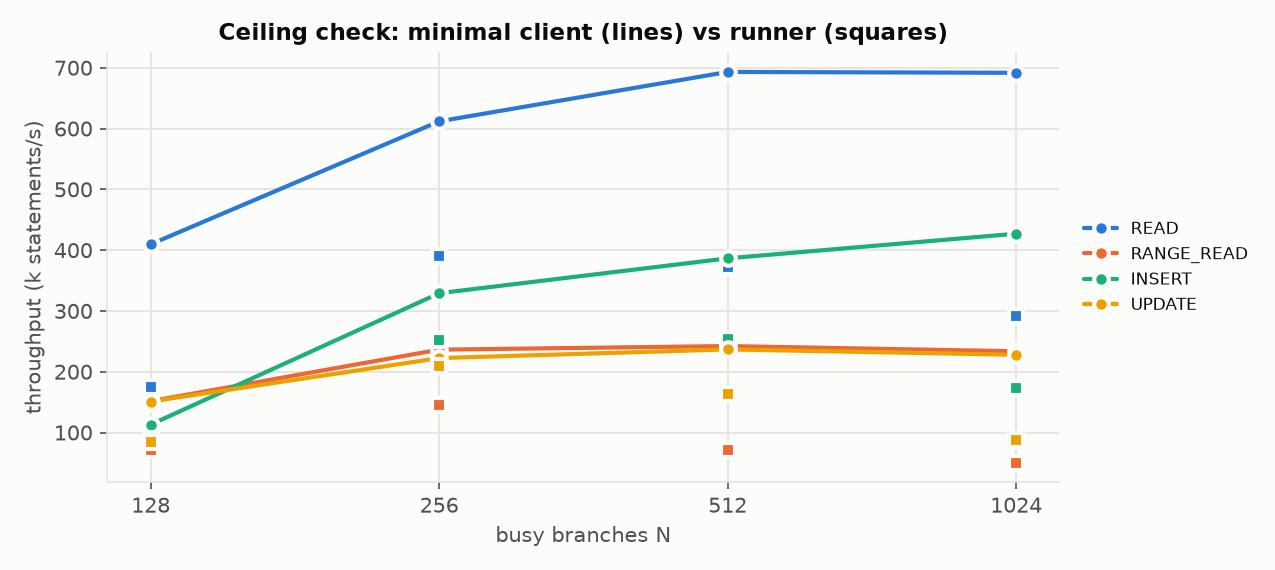
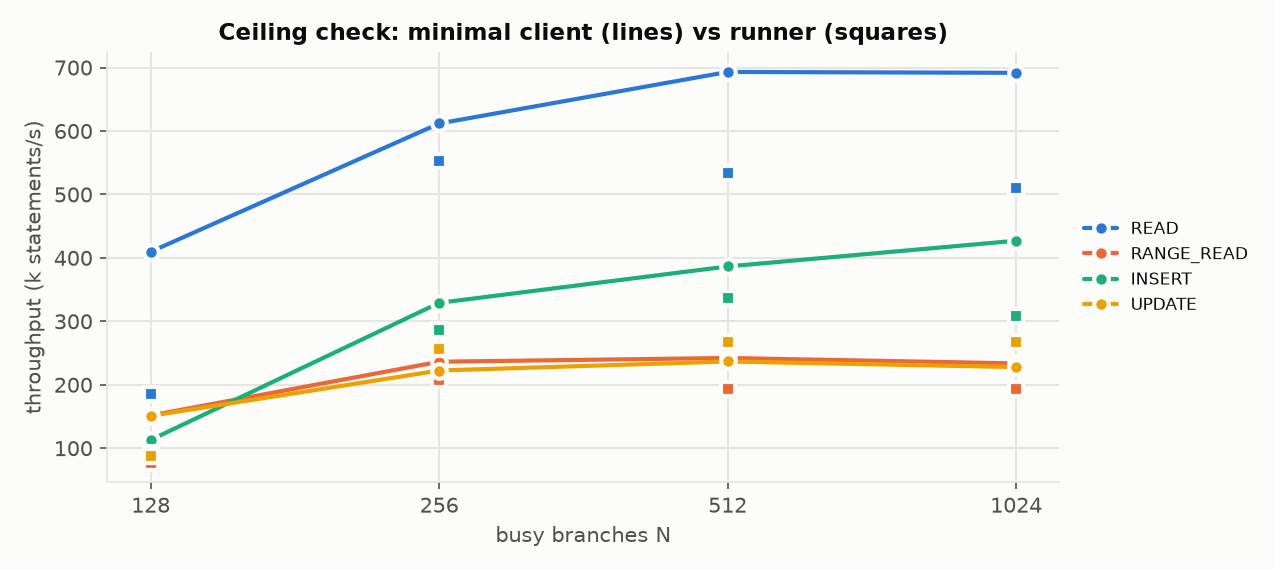
exp 13: throughput as the sum of per-node rates; n4's faulty memory; what caps scaling at N = 256
The merged throughput (all ops / the longest node window) followed n4 (hp091), whose memory copy
bandwidth is ~1 GiB/s against 6.4-7.2 GiB/s on the other nodes. The scaling and ceiling figures
and tables now use the sum of the nodes' own rates; the merged number stays in scaling.csv as
throughput_slowest_window.

The plateau from N = 256 is about one client-backend pair per hardware thread, with the Python
client spending most of the CPU (~270 us per point read against ~100 us in Postgres). pgbench with
the same unprepared query serves 118k reads/s per node at 17 clients against the runner's 38k. The
report's earlier reading of the ceiling check as a light client is corrected; the probes are in
logs/node_probes_after_run_2026-11-05.txt, and cloudlab.md marks hp091.

diff --git a/experiment/13-pgcopy-nodes/scripts/plot.py b/experiment/13-pgcopy-nodes/scripts/plot.py
@@ -4,7 +4,7 @@
     uv run python experiment/13-pgcopy-nodes/scripts/plot.py [--run data/run] [--figures figures]
 
 figures/low_load.{png,csv}       one busy branch, one client: p50 / p95 per data op; branch create (copy + start)
-figures/scaling.{png,csv}        busy branches spread over the 15 hosts: throughput and p50 per op vs N
+figures/scaling.{png,csv}        busy branches spread over the 15 hosts: throughput (sum of per-node rates) and p50
 figures/ceiling.{png,csv}        the minimal asyncio client (ceiling_check) vs the runner, per op and N
 figures/branch_create.{png,csv}  create latency (BRANCH rows) vs busy branches: spread over 15 hosts and on one host
 figures/cold_start.{png,csv}     point-read latency on a fresh branch, rolling median per run
@@ -126,8 +126,12 @@ def scaling(run: Path, out: Path):
             rc = s.get("remote_cpu") or {}
             mc = (s.get("multi_client") or {}).get("nodes") or []
             slow = max(mc, key=lambda x: x["elapsed_time"]) if mc else None
-            rows.append({"op": op, "n": s["num_threads"], "throughput": s["throughput"],
-                         "sum_node_throughput": sum(x["throughput"] for x in mc) if mc else s["throughput"],
+            # throughput = sum of each node's own rate (all nodes start together; a slow node does not stretch
+            # the others' windows). throughput_slowest_window = all ops / the longest node window, the shared
+            # driver's merged number: one faulty node (n4, README) drags it down, so it is kept only for reference.
+            rows.append({"op": op, "n": s["num_threads"],
+                         "throughput": sum(x["throughput"] for x in mc) if mc else s["throughput"],
+                         "throughput_slowest_window": s["throughput"],
                          "slowest_node": slow["node"] if slow else None,
                          "window_s": s.get("elapsed_time"),
                          "median_node_window_s": float(np.median([x["elapsed_time"] for x in mc])) if mc else None,
@@ -146,13 +150,12 @@ def scaling(run: Path, out: Path):
     for i, op in enumerate(OPS):
         d = df[df.op == op]
         line(axes[0], d.n, d.throughput / 1e3, i, op)
-        axes[0].plot(d.n, d.sum_node_throughput / 1e3, color=SERIES[i], linestyle=":", linewidth=1.5)
         line(axes[1], d.n, d.p50_ms, i, op)
     for ax in axes:
         nticks(ax, df.n)
         ax.set_xlabel("busy branches N (spread over the hosts)")
     axes[0].set_ylabel("throughput (k statements/s)")
-    axes[0].set_title("Throughput (dotted: sum of per-node rates)")
+    axes[0].set_title("Throughput (sum of per-node rates)")
     axes[1].set_ylabel("p50 latency (ms)")
     axes[1].set_title("Latency")
     axes[0].legend(loc="upper left")

diff --git a/experiment/13-pgcopy-nodes/report.md b/experiment/13-pgcopy-nodes/report.md
@@ -15,13 +15,23 @@ per point (the workloads' own windows); medians unless noted. Dataset: CH-benCHm
 - **Data operations at low load are local-Postgres fast:** point read 0.46 ms, 100-row range read 1.14 ms, insert
   0.74 ms, update 0.89 ms (p50, one branch, one client on the same node over loopback, fsync and synchronous commit
   on).
-- **Throughput scales with the hosts until the hosts' CPUs are full.** With N busy branches spread over the 15
-  hosts, throughput grows linearly to N = 256: 390k point reads/s, 145k range reads/s, 253k inserts/s, 209k
-  updates/s (sum of the per-node rates: 553k / 208k / 287k / 256k). Beyond that every host runs 20 client processes
-  next to 34-69 instances on 20 hardware threads (n1: 14-19 busy), and one slow node (n4) sets the merged window:
-  at N = 1,024, 292k point reads/s and 1.2 ms p50.
-- **The benchmark client, not Postgres, is most of the high-N limit.** A minimal asyncio client on the same nodes
-  (ceiling check) reaches 693k point reads/s, 242k range reads/s, 427k inserts/s and 237k updates/s.
+- **Throughput grows with N until the hosts are full, then stays flat.** With N busy branches spread over the 15
+  hosts (throughput = sum of the nodes' own rates), it peaks at N = 256 to 512: 553k point reads/s, 208k range
+  reads/s, 337k inserts/s, 268k updates/s, and stays within 9% of that up to N = 1,024 while latency rises. Reads stop
+  at the hosts' CPUs (from N = 512, 17-19 of 20 hardware threads busy on the median node, 10 physical cores), writes at the SSDs
+  (15-20k synchronous writes/s per node, the disk 84-88% busy).
+- **The cap at N = 256 is the Python clients' CPU, at about one client per hardware thread.** Each busy branch is
+  one client thread with one request in flight, served by one backend process of the branch's own instance. Per
+  node, throughput grows until those pairs fill the 20 hardware threads (17 per node at N = 256) and is flat after.
+  The client costs most of that CPU: ~270 us of hardware-thread time per point read, Postgres ~100 us. pgbench (a C
+  client) with the same unprepared `SELECT *` on one node does 118k reads/s with 17 clients (131k at its peak)
+  against the runner's 38k; with prepared statements 304k. The ceiling check's asyncio client is Python too
+  (~430 us per read) and gets only 1.1-1.4x the runner (updates 0.85-0.89x). These curves therefore measure how many
+  Python clients fit on a node, not what pgcopy's instances can serve.
+- **One node (n4, hp091) has faulty memory**: about 1 GiB/s of memory copy bandwidth against 6.4-7.2 GiB/s on the
+  other 15 (measured after the run). It falls behind the others whenever the hosts are full (at N = 1,024 its rate
+  was 25-56% of the median node's). It is in the sums with its own rate, so the sums are up to 5% below what 15
+  healthy hosts would give.
 - **Busy branches elsewhere barely slow a fork; busy branches on the forking node do.** Spread over the 15 hosts,
   the create p50 grows from 1.63 s (N = 1) to 1.87 s (N = 128) and 2.42 s (N = 512, of which 35 busy branches are on
   the creating node). With all busy branches on the creating node it grows faster: 1.81 s at N = 1, 2.58 s at
@@ -60,31 +70,66 @@ with fsync on: the SATA SSD's flush costs a few hundred microseconds.
 ![scaling](figures/scaling.png)
 
 Each point: N branches split over n1-n15 (N < 15 uses N hosts), one client per branch on the branch's node,
-min(20, branches) client processes per node, every node's timed window started together. Throughput = all nodes'
-operations / the longest node window (experiment 12's rule); the dotted lines add up each node's own rate.
+min(20, branches) client processes per node, every node's timed window started together. Throughput = the sum of
+each node's own rate (its operations / its own window). Experiment 12's rule, all operations / the longest node
+window, is not used: one faulty node (n4, below) stretched the longest window up to 4x, which put that number up to
+74% below the per-node sum (range reads at N = 1,024) and made it fall past N = 256 while every other node held its
+rate. It is kept in `figures/scaling.csv` (`throughput_slowest_window`) for reference.
 
-| N | Point read k/s (sum) | Range read k/s (sum) | Insert k/s (sum) | Update k/s (sum) | Point read p50 |
+| N | Point read k/s | Range read k/s | Insert k/s | Update k/s | Point read p50 |
 |---|---|---|---|---|---|
 | 1 | 1.7 | 0.8 | 0.8 | 0.7 | 0.35 ms |
-| 16 | 24.7 | 10.9 | 12.1 | 10.9 | 0.36 ms |
-| 64 | 85.7 | 39.5 | 44.9 | 44.1 | 0.36 ms |
-| 128 | 174.6 (186) | 71.1 (77) | 90.0 (92) | 84.6 (88) | 0.41 ms |
-| 256 | 390.4 (553) | 145.1 (208) | 252.9 (287) | 209.2 (256) | 0.26 ms |
-| 512 | 371.5 (534) | 71.3 (193) | 254.5 (338) | 163.9 (268) | 0.71 ms |
-| 1,024 | 291.8 (510) | 50.3 (194) | 173.8 (309) | 87.1 (267) | 1.21 ms |
+| 16 | 25.3 | 11.3 | 12.3 | 11.1 | 0.36 ms |
+| 64 | 99.0 | 43.3 | 47.2 | 45.4 | 0.36 ms |
+| 128 | 185.9 | 77.1 | 91.7 | 88.3 | 0.41 ms |
+| 256 | 553.3 | 208.1 | 287.1 | 256.0 | 0.26 ms |
+| 512 | 534.1 | 192.8 | 337.5 | 267.7 | 0.71 ms |
+| 1,024 | 510.0 | 193.7 | 308.5 | 267.2 | 1.21 ms |
 
-- Up to N = 256 each node runs one client process per busy branch and the curves are linear. From N = 512 on, the
-  20 client processes per node each drive several branches, the node's 20 hardware threads are nearly full
-  (n1: 14.0-19.3 busy cores, of which the instances' `postgres` processes 2.5-5.8) and latency rises.
-- n4 (hp091) was the slowest node at every N >= 256: 1.2-1.6x the median node window at N = 256, up to 4x for range
-  reads at N = 1,024 (12.2 s against 3.0 s). Nothing in its kernel log, clock, governor or memory explained it.
-  The gap between the solid and dotted lines is mostly n4.
+Per node (median of the 15) at N = 256 / 512 / 1,024, from the summaries' CPU and disk samples:
+
+| | Point reads | Range reads | Inserts | Updates |
+|---|---|---|---|---|
+| Rate per node (k/s) | 37.9 / 36.2 / 35.0 | 14.2 / 13.5 / 13.5 | 18.8 / 23.0 / 21.0 | 17.3 / 18.3 / 18.7 |
+| Busy hardware threads (of 20) | 14.4 / 17.2 / 17.9 | 11.8 / 17.3 / 18.7 | 12.0 / 16.4 / 16.7 | 12.3 / 13.6 / 15.9 |
+| of which client / postgres (N = 256 ... 1,024) | 10.1 / 3.7 ... 10.2 / 4.1 | 9.6 / 1.7 ... 10.2 / 5.6 | 7.9 / 3.1 ... 10.1 / 3.6 | 7.5 / 4.1 ... 9.2 / 5.3 |
+| SSD writes/s, MB/s | - | - | 15-20k, 134-172 MB/s | 15-17k, 213-259 MB/s |
+
+- **Reads stop at the hosts' CPUs, and the client is most of it.** An xl170 has 10 physical cores (20 hardware
+  threads). Each busy branch is one client thread (one request in flight, its own psycopg2 connection) and one
+  backend process on the branch's own instance, so N = 256 puts 17 such pairs on each node, about one per hardware
+  thread. From there the median node has 14-19 threads busy and its rate stays flat while p50 grows (point reads 0.26
+  to 1.21 ms): more busy branches only queue. Per point read the node spends 380 us of hardware-thread time at
+  N = 256 (Python client 266 us, postgres 98 us), 475-511 us at N = 512-1,024 (threads sharing cores). The runner's
+  client processes use 1.8-5.6x the CPU of all the node's instances together. From N = 512 the 20 client processes
+  per node each drive several branches.
+- **What one node can serve (pgbench after the run, `logs/node_probes_after_run_2026-11-05.txt`).** pgbench on n0
+  against the warm seed instance over loopback, one client = one connection = one backend as above, same point read
+  as the runner (unprepared `SELECT *` on the stock key): 81k reads/s with 10 clients, 118k with 17, 131k with 20
+  (152 us per read, client included), flat beyond (128k with 40). With prepared statements and one column: 304k at
+  20 clients (66 us per read). Same knee at clients = hardware threads, at 3.1x the runner's rate for the same 17
+  clients. Caveat: pgbench's clients shared one instance (one copy of the stock pages in 1 GB of shared_buffers);
+  pgcopy's 17-68 instances each keep their own 40 MB copy, which costs CPU cache, but their measured postgres share
+  (~100 us per read) is within pgbench's total.
+- **Writes stop at the SSDs.** Every commit waits for its WAL flush (synchronous_commit on), and 17-69 separate
+  instances cannot share a group commit: each node's disk is 84-91% busy from N = 128 on (15-20k writes/s from N = 256),
+  updates write 213-259 MB/s (full-page images) against the SATA SSD's ~350 MB/s, and the CPUs are not full.
+- **n4 (hp091) has faulty memory.** It was the slowest node at every N >= 256 (up to 4x the median node window, range
+  reads at N = 1,024: 12.2 s against 3.0 s) with its CPUs as busy as the others', i.e. it got 1.6-4x less done per
+  CPU-second. A check after the run (`dd` from /dev/zero to /dev/null with 64 MB blocks, the copy goes through DRAM):
+  n4 1.0 GiB/s with one stream and 0.9 GiB/s with four, the other 15 nodes 6.4-7.2 and 17.3-18.8 GiB/s. Its CPU
+  speed is normal (same clock under load, same `openssl speed` throughput, no thermal throttle counts), as are its
+  DIMMs (4 x 16 GB at 2,133 MT/s like the others) and EDAC counters (0). Range reads move the most memory and suffer
+  most (n4 at N = 1,024: 3.4k/s against the median 13.5k/s); point reads least. At N <= 128 n4 kept pace, so either
+  the fault only shows when many processes compete for memory, or it started during the day; the data cannot tell.
+  The sums above include n4 at its own rate (up to 5% below 15 healthy hosts).
 - The timed windows are short (1-4 s at N >= 16): the per-client counts are experiment 5's, sized for slower
   systems; every point still holds 12,000-1,000,000 statements.
-- Point-read p50 dips at N = 256 (0.26 ms against 0.41 ms at N = 128); a likely cause is the CPUs staying at high
-  clock when every core is busy (governor `schedutil`), not verified.
+- Point-read p50 dips at N = 256 (0.26 ms against 0.41 ms at N = 128), and with it throughput grows 3x from
+  N = 128 to 256 for 2x the branches (per node: 9 to 17 clients, 12.4k to 37.9k point reads/s); a likely cause is
+  the CPUs staying at high clock when every core is busy (governor `schedutil`), not verified.
 
-## Ceiling check: the minimal client
+## Ceiling check: the asyncio client
 
 ![ceiling](figures/ceiling.png)
 
@@ -96,9 +141,15 @@ operations / the longest node window (experiment 12's rule); the dotted lines ad
 | 1,024 | 692 | 234 | 427 | 228 |
 
 Same load shape (one connection per branch, one request in flight) without the runner's bookkeeping, on the same
-nodes. At N = 512 and 1,024 the minimal client gets 1.4-2.6x the runner's throughput for point reads, inserts and
-updates and 3.4-4.6x for range reads: the runner's client CPU (up to 121 cores across the 15 nodes, out of 300)
-competes with the instances on the same cores.
+nodes, for 30 s per point; throughput is the sum of the nodes' rates, the squares are the runner's (scaling table).
+At N = 256-1,024 the minimal client gets 1.11-1.36x the runner's point reads, 1.13-1.25x its range reads and
+1.15-1.38x its inserts. It is not a light client: it is Python as well (psycopg, asyncio), at ~430 us of
+hardware-thread time per point read (client ~260, postgres ~170) against the runner's 380 us, and its point reads
+stop at about 46k/s per node with the nodes' threads 98% busy (295 of 300). pgbench's 131k reads/s per node with the
+same query (Scaling, above) is the better reference for what the instances can serve. Updates are the exception: the minimal client gets 0.85-0.89x the runner, its 30 s windows
+against the runner's 2-4 s; both are at the SSDs' write limit, and a longer window likely includes more checkpoint
+and full-page-image writes (not verified). n4 is in these sums too (ceiling at N = 1,024, range reads: n4 3.2k/s, the others
+16.3-16.8k/s).
 
 ## Branch creation under load
 

diff --git a/experiment/13-pgcopy-nodes/README.md b/experiment/13-pgcopy-nodes/README.md
@@ -98,6 +98,10 @@ Also superseded: the smoke attempt whose multi-node branch point waited for two 
 one (`data/smoke/pgcopy/scaling_branch.hung_go_count/`), and the failed ceiling attempt
 (`data/run/pgcopy/scaling_data/superseded/ceiling_wal_removed/`).
 
+Found after the run: n4 (hp091) has faulty memory (about 1 GiB/s of copy bandwidth against 6.4-7.2 GiB/s on the
+other nodes; report, "Scaling"). Because it stretched the multi-node points' longest window, the scaling figure and
+tables report the sum of the nodes' own rates, not experiment 12's all-operations-over-the-longest-window number.
+
 Not done from the plan: `scripts/plotting/*` colour maps were not given `pgcopy` (they have no `neon_local` either;
 this experiment's figures come from its own `plot.py`). The palette validator of the dataviz guidance needs `node`,
 which the coordinator lacks; the figures use the reference palette's slots 1-4 in fixed order unchanged.
@@ -113,7 +117,8 @@ results/  aggregated data, in git (scripts/collect_results.py from data/): every
 code/     base_commit.txt, shared_code.patch
 scripts/  launch.sh (detached unit on a node), chain.sh (setup | smoke | full | pull), pull.sh, plot.py,
           fork_phases.py, collect_results.py
-logs/     the network probe (summary; raw/ not in git), clock offsets, status snapshots; install, start, seed,
+logs/     the network probe (summary; raw/ not in git), clock offsets, status snapshots, node probes after the
+          run (CPU, memory bandwidth, pgbench point-read capacity); install, start, seed,
           deploy, smoke logs (*.log, not in git)
 data ->   /mydata/exp13 on the coordinator, raw, not in git (62 GB): run/ (full run), smoke/ (smoke ladder),
           archive/<node>/ (agents' forks/failures/trims.jsonl, kept statement logs), nodes/<node>/ (each host's own

diff --git a/experiment/13-pgcopy-nodes/REPRODUCE.md b/experiment/13-pgcopy-nodes/REPRODUCE.md
@@ -89,9 +89,10 @@ too); agent archives stay in `/mydata/pgcopy/archive` on every node until delete
 - Background rows: with many fast background clients the runner's in-memory rows exhaust a node; pgcopy's
   scaling_branch runs record 1 background operation in 20 (`BENCH_BG_SAMPLE`, fast_client); multiply background
   counts by 20 (multi_scaling.py does for its merged summaries).
-- One slow node sets a multi-node point's window (merged throughput = all ops / longest window). Here n4 (hp091) was
-  the slowest at every N >= 256 (up to 4x the others' window at N = 1,024); `figures/scaling.csv` also gives the sum
-  of per-node rates.
+- Check every node's memory bandwidth before a run: n4 (hp091) had about 1 GiB/s against 6.4-7.2 GiB/s on the
+  others (`dd if=/dev/zero of=/dev/null bs=64M count=32`, one and four at once) and fell 2-4x behind at high N. Replace
+  such a node. Multi-node throughput is the sum of the nodes' own rates (`figures/scaling.csv` `throughput`); the
+  shared driver's merged number (all ops / the longest window, `throughput_slowest_window`) follows the slowest node.
 
 - The coordinator never reaches the agents (LAN only); every agent-facing command runs on a node over ssh
   (`pgcopy_ctl.py`). A command that should talk to agents and is run on the coordinator must go through `pgcopy.py`.

diff --git a/.agent/cloudlab.md b/.agent/cloudlab.md
@@ -65,7 +65,9 @@ n0-n15 = node0-node15). Every node: PGDG PostgreSQL 17.11 (no default cluster), 
 `/mydata/pgcopy/{svc,instances,archive}`, results under `/mydata/exp13`; cluster-internal ssh key
 `~/.ssh/cluster_ed25519` (+ `~/.ssh/config` for 10.10.1.*). n0 holds the seed instance (`seed`, port 24000, W=3),
 n1-n15 are hosts (n1 also runs the drivers). **Trim the SSDs** (`sudo fstrim /mydata`): without it they slowed after a
-few hundred GB of copies; the agents now trim after every purge. n4 (hp091) is the slowest node under load.
+few hundred GB of copies; the agents now trim after every purge. n4 (hp091) has faulty memory: ~1 GiB/s of copy bandwidth (`dd if=/dev/zero of=/dev/null bs=64M
+count=32`) against 6.4-7.2 GiB/s on the other 15 nodes, normal CPU speed, no EDAC errors (checked 5 Nov 2026 after
+experiment 13); it falls 2-4x behind under load. Leave it out or ask CloudLab to replace it.
 
 State after experiment 13 (5 Nov 2026, 13:30 UTC): agents running, only `seed` left (on n0); `/mydata/exp13` on every
 node holds that node's results (the coordinator has all of them under `/mydata/exp13`). Cleanup:
